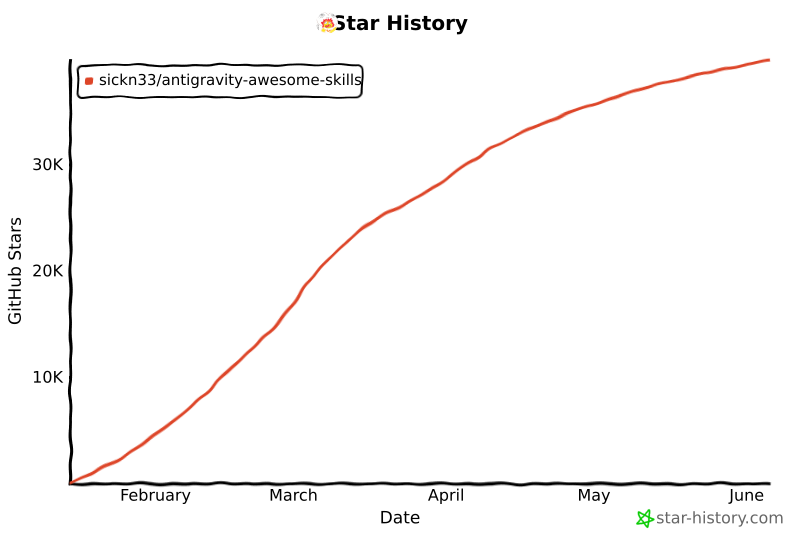
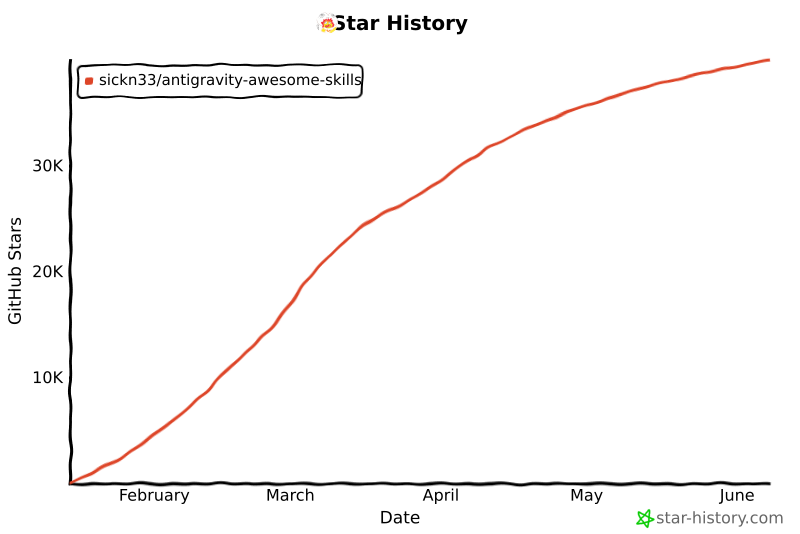
chore: update star history chart

diff --git a/README.md b/README.md
@@ -486,14 +486,14 @@ We officially thank the following contributors for their help in making this rep
 ## Star History
 
 <a href="https://www.star-history.com/#sickn33/antigravity-awesome-skills&type=date&legend=top-left">
- <img alt="Star History Chart" src="https://api.star-history.com/svg?repos=sickn33/antigravity-awesome-skills&type=date&legend=top-left&cache_bust=202606060706" />
+ <img alt="Star History Chart" src="https://api.star-history.com/svg?repos=sickn33/antigravity-awesome-skills&type=date&legend=top-left&cache_bust=202606080744" />
 </a>
 
 <a href="https://www.star-history.com/sickn33/antigravity-awesome-skills">
  <picture>
-   <source media="(prefers-color-scheme: dark)" srcset="https://api.star-history.com/chart?repos=sickn33/antigravity-awesome-skills&style=landscape1&theme=dark&cache_bust=202606060706" />
-   <source media="(prefers-color-scheme: light)" srcset="https://api.star-history.com/chart?repos=sickn33/antigravity-awesome-skills&style=landscape1&cache_bust=202606060706" />
-   <img alt="Star History Chart" src="https://api.star-history.com/chart?repos=sickn33/antigravity-awesome-skills&style=landscape1&cache_bust=202606060706" />
+   <source media="(prefers-color-scheme: dark)" srcset="https://api.star-history.com/chart?repos=sickn33/antigravity-awesome-skills&style=landscape1&theme=dark&cache_bust=202606080744" />
+   <source media="(prefers-color-scheme: light)" srcset="https://api.star-history.com/chart?repos=sickn33/antigravity-awesome-skills&style=landscape1&cache_bust=202606080744" />
+   <img alt="Star History Chart" src="https://api.star-history.com/chart?repos=sickn33/antigravity-awesome-skills&style=landscape1&cache_bust=202606080744" />
  </picture>
 </a>
 
